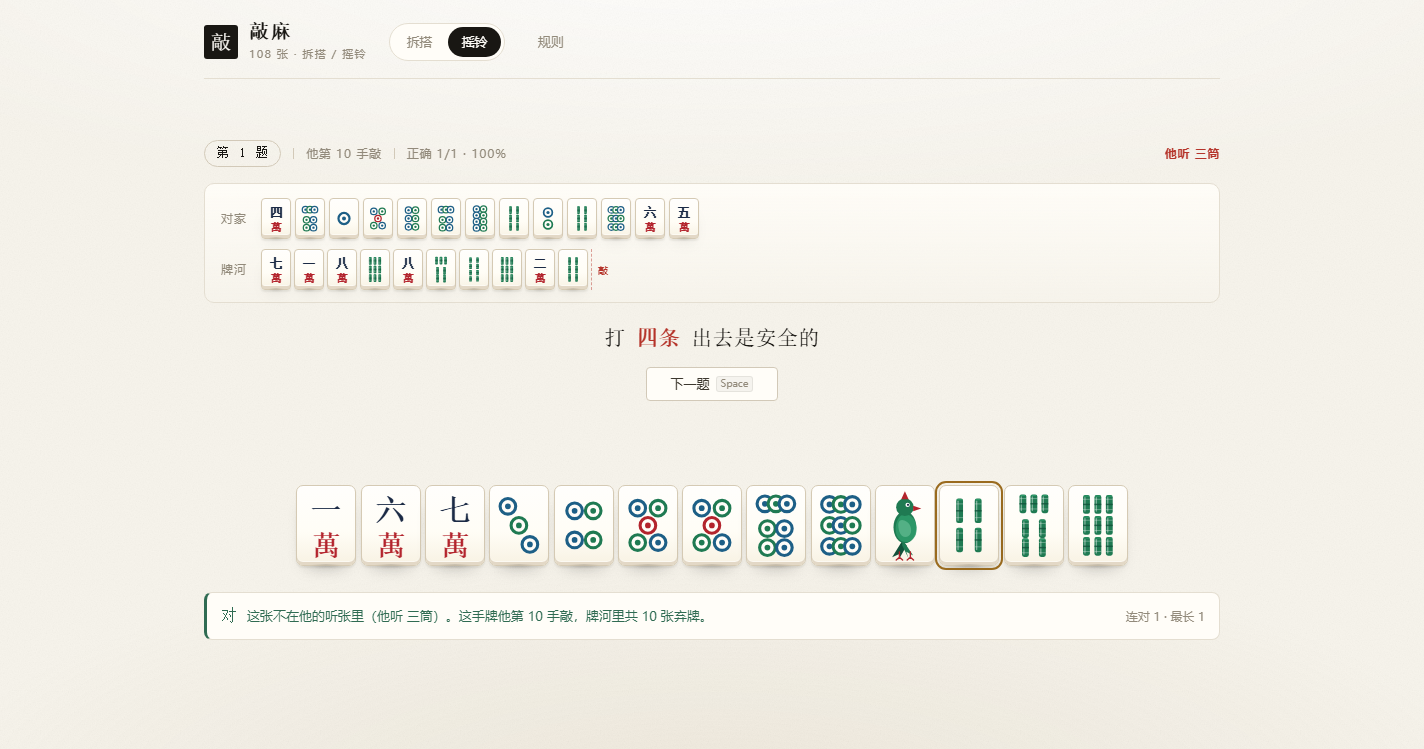
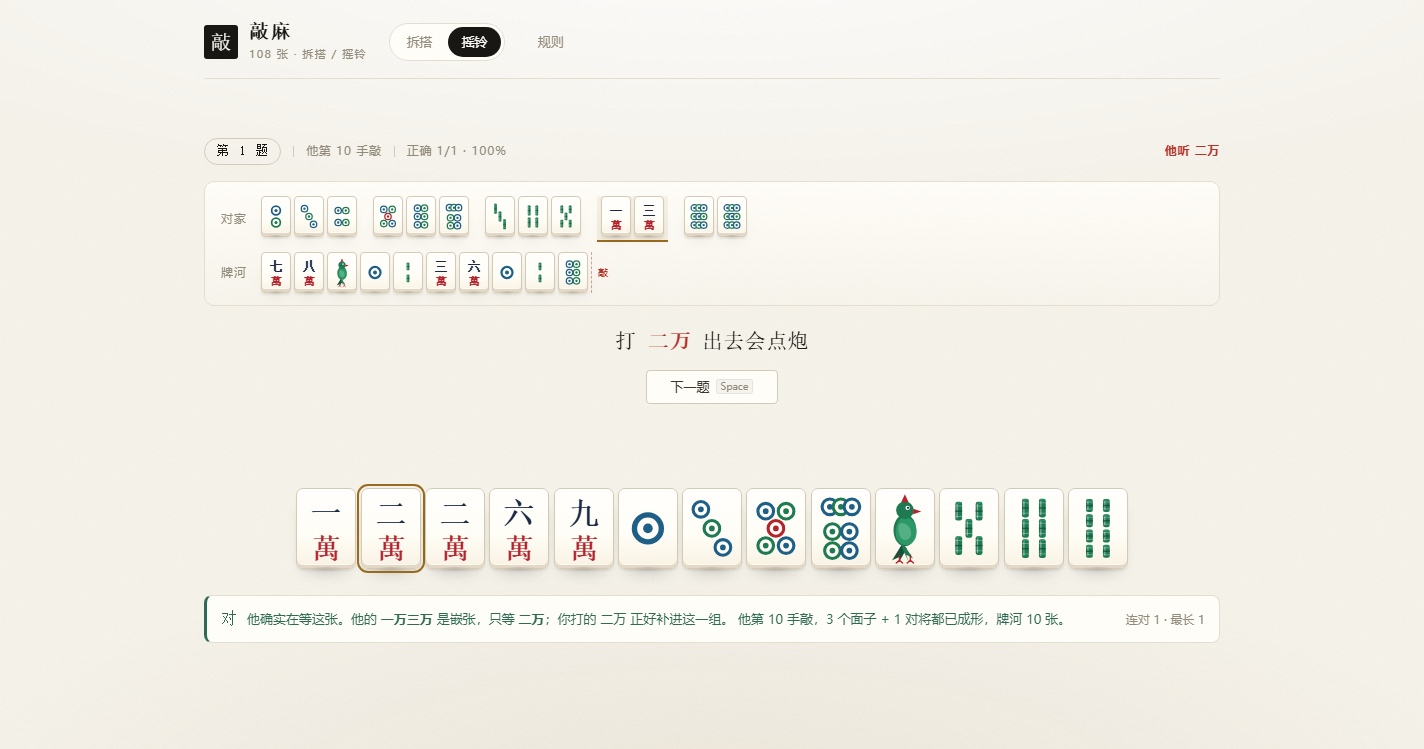
摇铃：牌河至少 5 张才出题；揭底讲清他哪一组在等什么

diff --git a/public/readmode.js b/public/readmode.js
@@ -5,12 +5,14 @@
 //
 // 题目是平衡的：一半来自他真正的听张（危险），一半不在他的听张里（不危险），
 // 否则一路点「不危险」也能有八成正确率，练不出东西。
-import { tileName } from '../engine.mjs';
+import { decompose, tileName } from '../engine.mjs';
 import { mulberry32, shuffle, newDeck } from '../opponent.mjs';
 import { simulateRound } from '../opponent.mjs';
 import { faceSVG } from './tiles.js';
 
 const KINDS = 27;
+const MIN_RIVER = 5;   // 至少 5 张弃牌才出题，否则等于让玩家猜
+const MAX_TURNS = 16;  // simulateRound 的上限：他最多摸 16 手就要听牌
 const STAT_KEY = 'qiaoma.readquiz.v1';
 
 function counts(arr) {
@@ -21,8 +23,8 @@ function counts(arr) {
 
 /** 用种子造一道题；失败返回 null（那局他没敲） */
 export function makeScenario(seed) {
-  const sim = simulateRound(seed, 16);
-  if (sim.knockAt < 0 || !sim.waits?.length || !sim.frozenHand) return null;
+  const sim = simulateRound(seed, MAX_TURNS);
+  if (sim.knockAt < MIN_RIVER || !sim.waits?.length || !sim.frozenHand) return null;
 
   const rnd = mulberry32((seed * 2654435761) >>> 0);
   const discards = sim.path.map((x) => x.discard);
@@ -120,15 +122,50 @@ export function createReadMode(els, { toast } = {}) {
     return d;
   }
 
+  /** 把他的 13 张按「面子 / 等待的那组 / 将」分好，用于揭底时讲解 */
+  function hisGroups(sc) {
+    const left = counts(sc.frozen);
+    const take = (tiles) => {
+      const out = [];
+      for (const t of tiles) {
+        if (left[t] > 0) { left[t]--; out.push(t); }
+      }
+      return out;
+    };
+    const blocks = decompose(sc.frozen).blocks;
+    const groups = [];
+    for (const b of blocks) {
+      const tiles = take(b.tiles);
+      if (!tiles.length) continue;
+      const wait =
+        b.kind === 'partial' ||
+        (b.kind === 'single' && sc.waits.includes(tiles[0]));
+      groups.push({ tiles, shape: b.shape, wait });
+    }
+    // 兜底：没被任何块吃掉的牌单独列出
+    const rest = [];
+    for (let t = 0; t < KINDS; t++) for (let i = 0; i < left[t]; i++) rest.push(t);
+    if (rest.length) groups.push({ tiles: rest, shape: '', wait: false });
+    return groups;
+  }
+
   function paint() {
     const sc = R.scenario;
     if (!sc) return;
     const revealed = R.state === 'revealed';
 
-    // 他的手牌：答完才翻开
+    // 他的手牌：答完才翻开（翻开时按块分组，等待的那组描金）
     const his = document.createDocumentFragment();
-    for (const t of sc.frozen) {
-      his.appendChild(revealed ? tileEl(t, { small: true }) : backEl());
+    if (revealed) {
+      for (const g of hisGroups(sc)) {
+        const grp = document.createElement('span');
+        grp.className = 'opp-grp' + (g.wait ? ' wait' : '');
+        if (g.wait) grp.title = `这组在等 ${sc.waits.map(tileName).join(' / ')}`;
+        for (const t of g.tiles) grp.appendChild(tileEl(t, { small: true }));
+        his.appendChild(grp);
+      }
+    } else {
+      for (let i = 0; i < sc.frozen.length; i++) his.appendChild(backEl());
     }
     els.oppHand.replaceChildren(his);
 
@@ -178,12 +215,29 @@ export function createReadMode(els, { toast } = {}) {
     const correct = (R.answer === 'danger') === sc.danger;
     const cls = correct ? 'ok' : 'bad';
     const waits = sc.waits.map(tileName).join(' / ');
+    const q = tileName(sc.q);
+
+    // 用他真实的牌型讲清楚「为什么」：他把 4 组面子做完了，只剩一组在等
+    const groups = hisGroups(sc);
+    const waitGrp = groups.find((g) => g.wait);
+    const grpName = waitGrp ? waitGrp.tiles.map(tileName).join('') : '';
+    const grpShape = waitGrp ? waitGrp.shape : '';
+    const why = sc.danger
+      ? `他的 <b>${grpName}</b> 是${grpShape}，只等 <b>${waits}</b>；你打的 ${q} 正好补进这一组。`
+      : `他的 <b>${grpName}</b> 是${grpShape}，只等 <b>${waits}</b>；你打的 ${q} 补不上任何一组，进不来。`;
+    const meldN = groups.filter((g) => g.shape === '顺子' || g.shape === '刻子').length;
+    const pairN = groups.filter((g) => g.shape === '将').length;
+    const note = sc.discards.includes(sc.q)
+      ? `顺带：这张他自己打过（現物）——敲麻没有振听，理论上还能等，但实战里几乎不会。`
+      : '';
+
     els.fb.hidden = false;
     els.fb.className = `feedback ${cls}`;
     els.fb.innerHTML =
       `<span class="fb-mark">${correct ? '对' : '错'}</span>` +
-      `<span class="fb-body">${sc.danger ? '他确实在等这张' : '这张不在他的听张里'}` +
-      `（他听 ${waits}）。这手牌他第 ${sc.knockTurn} 手敲，牌河里共 ${sc.discards.length} 张弃牌。</span>` +
+      `<span class="fb-body">${sc.danger ? '他确实在等这张。' : '这张不在他的听张里。'}${why} ` +
+      `他第 ${sc.knockTurn} 手敲，${meldN} 个面子 + ${pairN} 对将都已成形，牌河 ${sc.discards.length} 张。` +
+      `${note ? `<span class="fb-note">${note}</span>` : ''}</span>` +
       `<span class="fb-score">连对 ${R.streak} · 最长 ${R.best}</span>`;
   }
 

diff --git a/public/style.css b/public/style.css
@@ -1289,3 +1289,8 @@ body.mode-read #replayBtn, body.mode-read #newBtn { display: none; }
 .fb-body { flex: 1; }
 .fb-body b { font-weight: 600; }
 .fb-score { color: var(--muted); font-size: 12px; white-space: nowrap; }
+
+.opp-grp { display: inline-flex; gap: 3px; margin-right: 12px; }
+.opp-grp:last-child { margin-right: 0; }
+.opp-grp.wait { padding: 0 4px 3px; border-bottom: 2px solid var(--amber); background: rgba(154, 107, 31, .08); border-radius: 3px 3px 0 0; }
+.fb-note { display: block; margin-top: 4px; color: var(--muted); font-size: 12px; }

diff --git a/README.md b/README.md
@@ -75,6 +75,9 @@ node server.mjs
 
 题目由 `public/readmode.js` 的 `makeScenario(seed)` 生成：`simulateRound` 跑一局，取他敲牌的那一刻（牌河 + 冻结的 13 张），再从剩余牌里发 12 张给我、加上问题牌凑成 13 张。
 
+- **牌河长度不固定**：他到第几手听牌，牌河就有几张。加了 `MIN_RIVER = 5` 的下限（弃牌不足 5 张的局直接跳过，否则等于让你猜），上限是 `MAX_TURNS = 16`。实测 400 个种子：牌河 6–16 张，平均 9.9 张，约三成种子被跳过、自动换下一个。
+- **揭底会讲原因**，不是只说「他在听这张」：把他的 13 张按块拆开（面子 / 将 / 等待的那一组），等待的那组在界面上描金，文字说明形与等张，例如「他的 一万三万 是嵌张，只等 二万；你打的 二万 正好补进这一组」。
+
 ## 自适应尺寸
 
 页面按「视口宽度 + 视口高度」双向自适应，把窗口压成一条长条形也能完整用：
